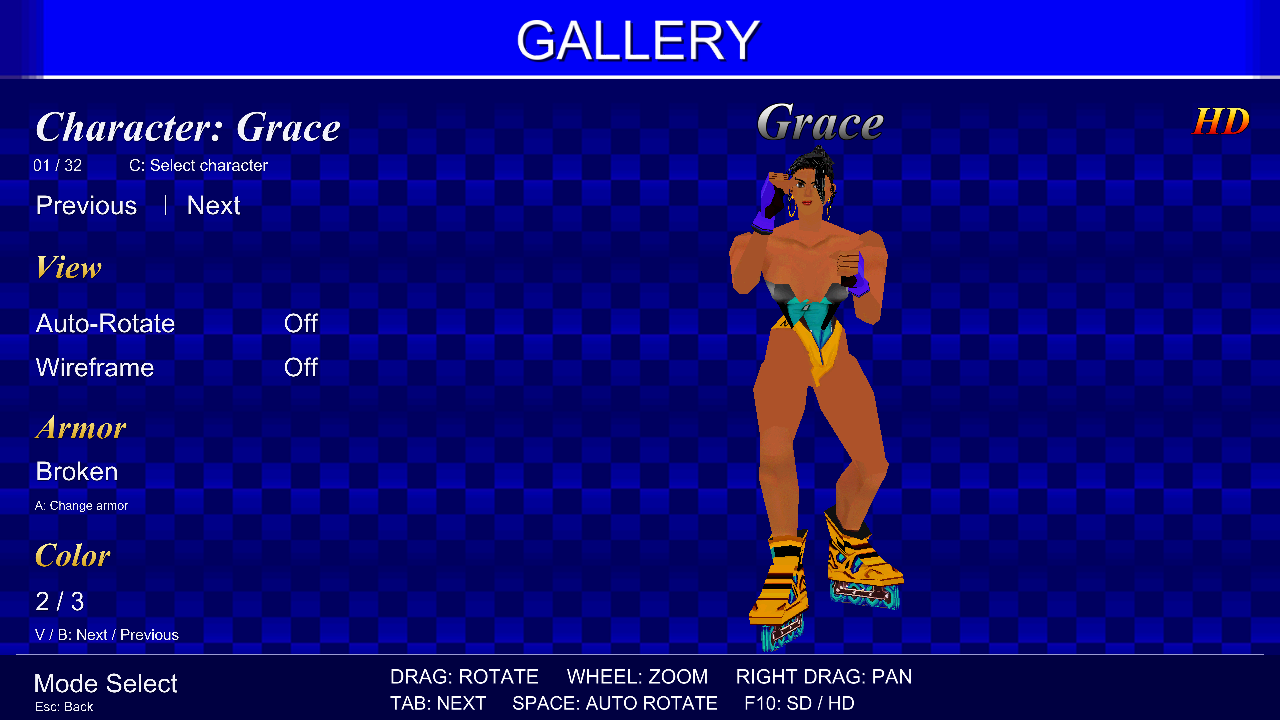
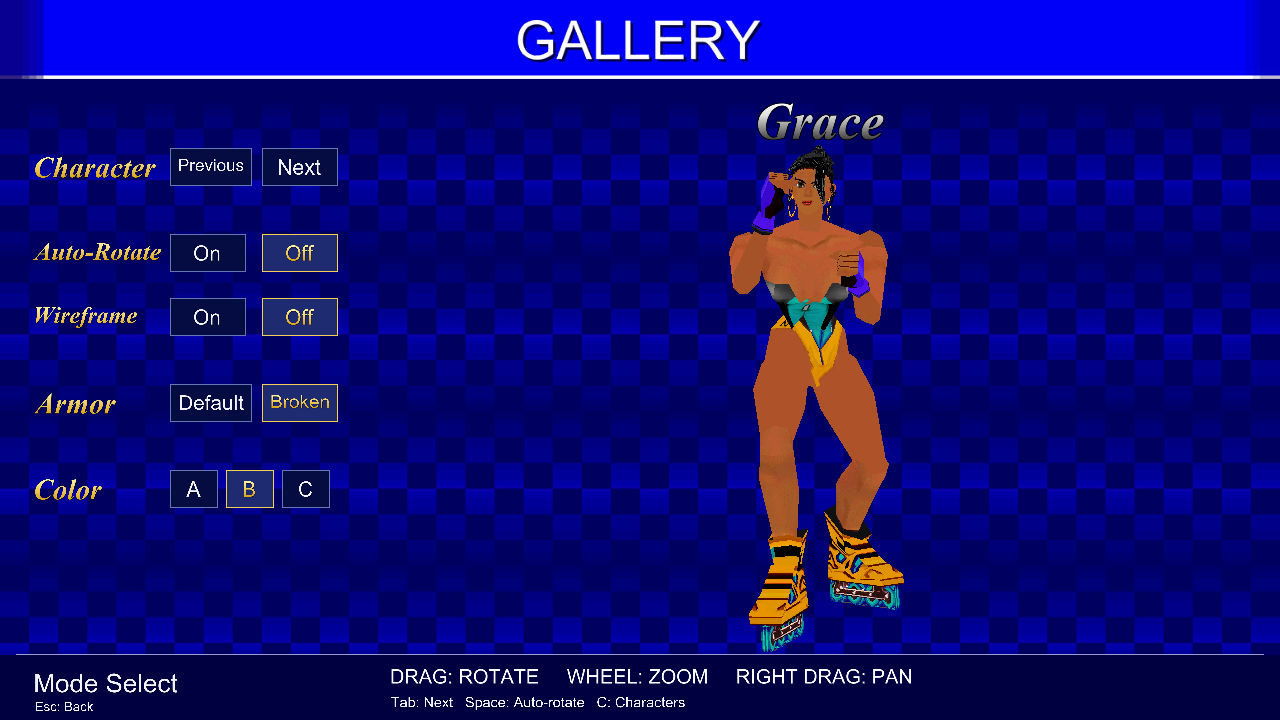
Simplify Gallery settings into inline option buttons
Show the character name only above the model. Use explicit On/Off, Default/Broken and lettered color buttons with highlighted selections. Remove SD/HD badges and texture-pack hints from the Gallery. Update the local typography helper and README screenshot.

diff --git a/games/fighters_megamix/src/gallery.cpp b/games/fighters_megamix/src/gallery.cpp
@@ -245,6 +245,7 @@ void Show(){
         bool full=armorFull||variant.broken.empty();
         if(LoadModel(full?variant.path:variant.broken)){colorIndex=next;armorFull=full;upload();}
     };
+    constexpr float characterY=148,rotateY=234,wireY=298,armorY=384,colorY=470;
     auto fill=[&](float x,float y,float w,float h,int r,int g,int b){SDL_SetRenderDrawColor(renderer,r,g,b,255);SDL_FRect rect{x,y,w,h};SDL_RenderFillRect(renderer,&rect);};
     std::vector<SDL_Keycode> variantTest;
     if(const char *test=getenv("FMM_GALLERY_TEST");test&&std::string(test)=="all_variants"&&catalogMode){
@@ -335,15 +336,19 @@ void Show(){
                 if(e.button.x<360&&e.button.button==SDL_BUTTON_LEFT){
                     float y=e.button.y;
                     if(y>=655){running=false;continue;}
-                    if(y>=104&&y<174&&catalogMode){picker=true;pickCursor=selected;}
-                    if(y>=182&&y<226){
-                        if(catalogMode)change(e.button.x<166?-1:1);
-                        else{selected=e.button.x<166?0:1;reset();}
+                    float x=e.button.x;
+                    auto hit=[&](float left,float top,float width){return x>=left&&x<left+width&&y>=top&&y<top+38;};
+                    if(hit(170,characterY,82))change(-1);
+                    if(hit(262,characterY,76))change(1);
+                    if(hit(170,rotateY,76))spin=true;
+                    if(hit(262,rotateY,76))spin=false;
+                    if(hit(170,wireY,76))wire=true;
+                    if(hit(262,wireY,76))wire=false;
+                    if(hit(170,armorY,82)&&!armorFull)armor();
+                    if(hit(262,armorY,76)&&armorFull)armor();
+                    if(catalogMode)for(size_t i=0;i<catalog[selected].colors.size();i++){
+                        if(hit(170+(i%3)*56,colorY+(i/3)*48,48))color(int(i)-colorIndex);
                     }
-                    if(y>=302&&y<340)spin=!spin;
-                    if(y>=346&&y<384)wire=!wire;
-                    if(y>=450&&y<492)armor();
-                    if(y>=580&&y<620)color(1);
                 }else{drag=e.button.button==SDL_BUTTON_LEFT;pan=e.button.button==SDL_BUTTON_RIGHT;}
             }
             if(e.type==SDL_EVENT_MOUSE_BUTTON_UP){if(e.button.button==SDL_BUTTON_LEFT)drag=false;if(e.button.button==SDL_BUTTON_RIGHT)pan=false;}
@@ -408,40 +413,34 @@ void Show(){
         SDL_SetRenderClipRect(renderer,nullptr);
         theme.Header("GALLERY",width);
         const std::string name=catalogMode?catalog[selected].name:(selected?"Player 2":"Player 1");
-        theme.Text("serif","Character: "+name,32,110,34,310);
-        if(catalogMode){
-            char counter[16];snprintf(counter,sizeof(counter),"%02d / 32",selected+1);
-            theme.Text("ui",counter,32,158,14,90);
-            theme.Text("ui","C: Select character",128,158,14,220);
-        }
-        theme.Text("ui","Previous",34,194,22,125);
-        theme.Text("ui","|",162,194,22,12);
-        theme.Text("ui","Next",185,194,22,125);
-        theme.Text("gold","View",32,254,26,300);
-        theme.Text("ui","Auto-Rotate",34,312,22,222);
-        theme.Text("ui",spin?"On":"Off",282,312,22,65);
-        theme.Text("ui","Wireframe",34,356,22,222);
-        theme.Text("ui",wire?"On":"Off",282,356,22,65);
-        theme.Text("gold","Armor",32,414,26,300);
-        if(catalogMode&&!catalog[selected].colors[colorIndex].broken.empty()){
-            theme.Text("ui",armorFull?"Full":"Broken",34,460,22,300);
-            theme.Text("ui","A: Change armor",34,500,13,300);
-        }else theme.Text("ui","Not applicable",34,460,22,310);
-        theme.Text("gold","Color",32,542,26,300);
-        if(catalogMode&&catalog[selected].colors.size()>1){
-            char label[40];snprintf(label,sizeof(label),"%d / %zu",colorIndex+1,catalog[selected].colors.size());
-            theme.Text("ui",label,34,590,22,300);
-            theme.Text("ui","V / B: Next / Previous",34,628,13,300);
-        }else theme.Text("ui","Original",34,590,22,300);
+        auto button=[&](const std::string &label,float x,float y,float w,bool active=false){
+            fill(x,y,w,38,active?30:5,active?43:12,active?112:65);
+            SDL_SetRenderDrawColor(renderer,active?245:104,active?206:119,active?87:178,255);
+            SDL_FRect rect{x,y,w,38};SDL_RenderRect(renderer,&rect);
+            theme.Text(active?"choice":"ui",label,x+w/2,y+10,18,w-14,true);
+        };
+        theme.Text("gold","Character",32,characterY+8,23,130);
+        button("Previous",170,characterY,82);
+        button("Next",262,characterY,76);
+        theme.Text("gold","Auto-Rotate",32,rotateY+8,23,130);
+        button("On",170,rotateY,76,spin);button("Off",262,rotateY,76,!spin);
+        theme.Text("gold","Wireframe",32,wireY+8,23,130);
+        button("On",170,wireY,76,wire);button("Off",262,wireY,76,!wire);
+        theme.Text("gold","Armor",32,armorY+8,23,130);
+        const bool hasArmor=catalogMode&&!catalog[selected].colors[colorIndex].broken.empty();
+        button("Default",170,armorY,82,armorFull);
+        if(hasArmor)button("Broken",262,armorY,76,!armorFull);
+        theme.Text("gold","Color",32,colorY+8,23,130);
+        const size_t colors=catalogMode?catalog[selected].colors.size():1;
+        for(size_t i=0;i<colors;i++)button(std::string(1,char('A'+i)),170+(i%3)*56,colorY+(i/3)*48,48,int(i)==colorIndex);
         theme.Text("serif",name,side+viewWidth/2,102,39,viewWidth-90,true);
-        theme.Text(hd?"warm":"serif",hd?"HD":"SD",width-90,107,28,70);
         // The same blue strip and silver rule frame the controls as the title.
         fill(0,height-65,width,65,0,0,65);
         fill(16,height-66,width-32,1,156,156,213);
         theme.Text("ui","Mode Select",32,height-48,22,300);
         theme.Text("ui","Esc: Back",34,height-19,11,270);
         theme.Text("plain","DRAG: ROTATE     WHEEL: ZOOM     RIGHT DRAG: PAN",390,height-51,16,width-420);
-        theme.Text("plain","TAB: NEXT     SPACE: AUTO ROTATE     F10: SD / HD",390,height-24,15,width-420);
+        theme.Text("ui","Tab: Next   Space: Auto-rotate   C: Characters",390,height-24,15,width-420);
         if(picker){
             theme.Background(width,height);
             theme.Header("SELECT CHARACTER",width);

diff --git a/tools/gallery/update_typography.py b/tools/gallery/update_typography.py
@@ -40,11 +40,14 @@ def update(theme, serif_path, sans_path):
     for name in names:
         if name not in excluded and not name.startswith('Character:') and ' / ' not in name:
             text('serif','Character: '+name,serif)
-    for label in ['View','Armor','Color']:text('gold',label,serif,True)
+    for label in ['Character','Auto-Rotate','Wireframe','Armor','Color']:text('gold',label,serif,True)
     labels=['Previous','Next','|','Auto-Rotate','Wireframe','On','Off','Full','Broken','Not applicable','Original','Mode Select','Esc: Back','C: Select character','A: Change armor','V / B: Next / Previous']
     labels+=['%02d / 32'%i for i in range(1,33)]
     labels += ['%d / %d'%(i,n) for n in range(1,9) for i in range(1,n+1)]
-    for label in labels:text('ui',label,sans)
+    labels+=['Default','A','B','C','D','E','F','G','H','Tab: Next   Space: Auto-rotate   C: Characters']
+    for label in labels:
+        text('ui',label,sans)
+        text('choice',label,sans,True)
     if len(assets)>512:raise ValueError('Too many theme entries')
     result=bytearray(b'FMMGUI02'+struct.pack('<I',len(assets)))
     for name,(width,height,pixels) in assets.items():

diff --git a/docs/GALLERY.md b/docs/GALLERY.md
@@ -29,7 +29,7 @@ variant. Model references must be filenames within the catalog folder.
 
 ## Controls
 
-Rotate and zoom the model using the on-screen controls. Use **V/B**, the **COLOR** control, or
+Rotate and zoom the model using the on-screen controls. Use **V/B**, the **Color** buttons, or
 left/right on a controller to switch colors. **A** switches armor states where available.
 The Gallery also supports switching the optional HD textures without changing the model catalog.
 
@@ -41,7 +41,9 @@ archives; `tools/audit.sh` also rejects their formats among tracked files.
 
 ## Updating the local typography
 
-The Gallery uses a large character title, gold section headings, and smaller sans-serif settings.
+The character name appears once above the model. Settings use compact option buttons, with
+the active choice highlighted in gold. Colors use lettered buttons (A, B, C, and so on).
+The interface does not display an SD/HD badge or texture-pack shortcut hint.
 After updating the executable, update an existing local theme using Python and Pillow:
 
 ```sh
